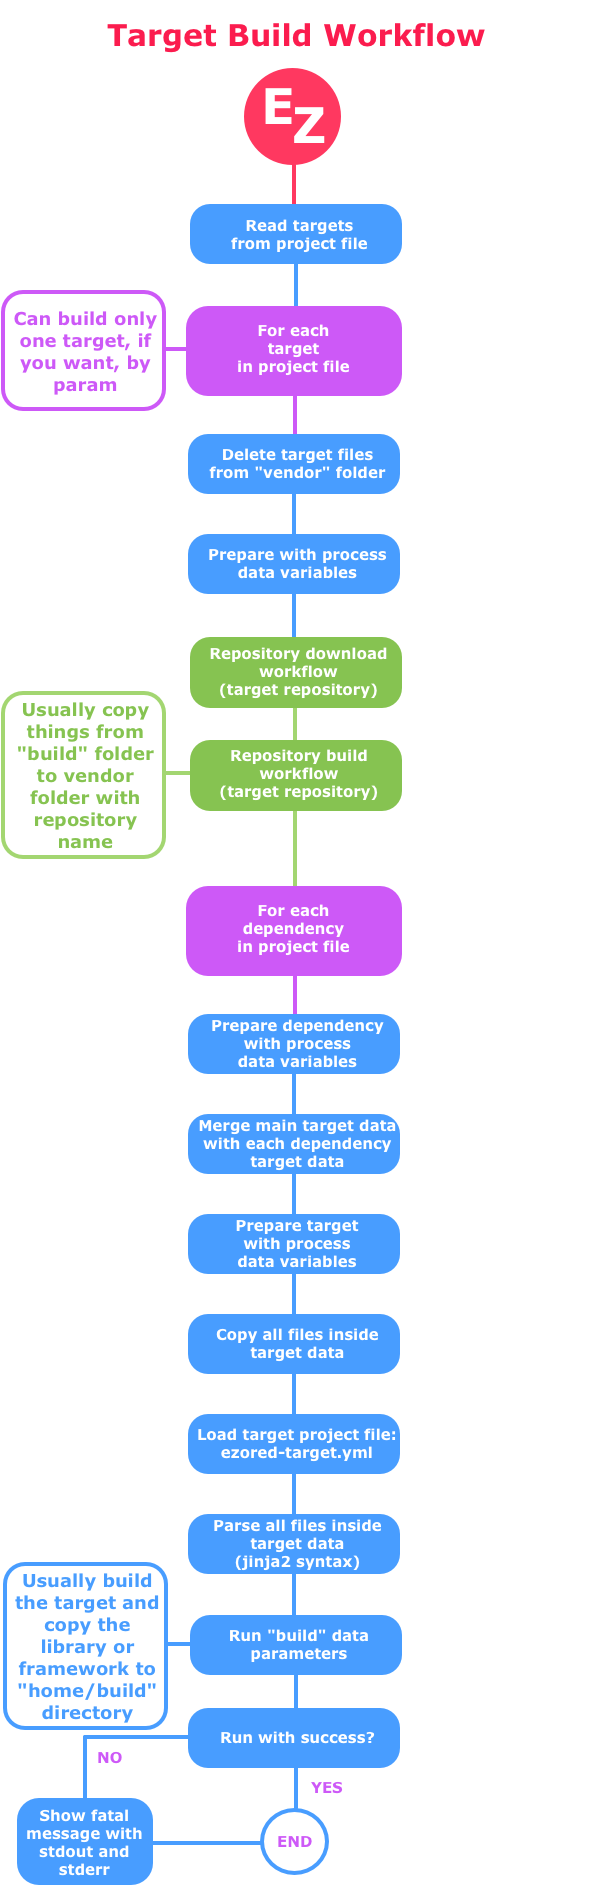
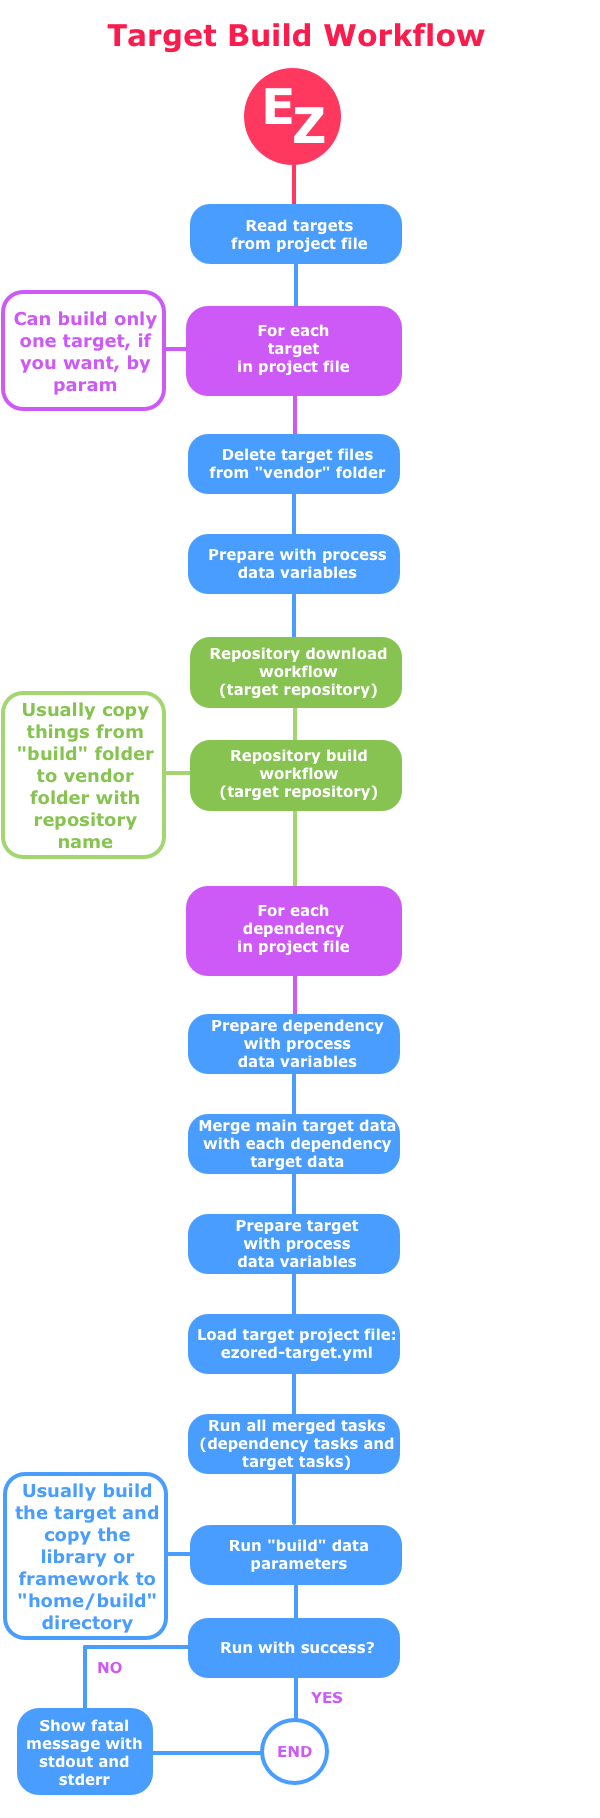
issue #3

diff --git a/ezored/__init__.py b/ezored/__init__.py
@@ -1,1 +1,1 @@
-__version__ = '0.1.4'
+__version__ = '0.1.5'

diff --git a/docs/DEPENDENCY.md b/docs/DEPENDENCY.md
@@ -12,21 +12,24 @@ The dependency block structure has this properties:
   - type
   - name
   - version
+- tasks  
 
-The property `"type"` define how EzoRed will get your dependency. Today we support types:
+The property in `"repository.type"` define how EzoRed will get your dependency. Today we support types:
 - local  
 - github  
 
-The property `"name"` define how EzoRed will find your dependency based on `"type"`. Example:  
+The property `"repository.name"` define how EzoRed will find your dependency based on `"type"`. Example:  
 - `local` = You need set the path to the dependency directory, ex: `${HOME}/my-dependency`  
 - `github` = You need set the repository name, ex: `ezored/dependency-sample` 
 
-The property `"version"` define what version EzoRed need download, ex: `"1.2.0"`. Git repositories have some especial version parse rules:
+The property `"repository.version"` define what version EzoRed need download, ex: `"1.2.0"`. Git repositories have some especial version parse rules:
 - `b:master` = will download version from branch "master" 
 - `t:1.2.0` = will download version from tag "1.2.0" 
 - `c:ef016c0` = will download version from commit "ef016c0" 
 - `1.2.0` = without prefix will download version from tag "1.2.0" 
 - `empty` = empty version field will download version from branch master 
+
+The property `"tasks"` contains a list of Tasks. This tasks are merged on build process with target tasks and executed before the target build command be executed.
 
 ### Custom dependencies
 

diff --git a/docs/TARGET.md b/docs/TARGET.md
@@ -12,21 +12,24 @@ The target block structure has this properties:
   - type
   - name
   - version
+- tasks  
 
-The property `"type"` define how EzoRed will get your target. Today we support types:
+The property `"repository.type"` define how EzoRed will get your target. Today we support types:
 - local  
 - github  
 
-The property `"name"` define how EzoRed will find your target based on `"type"`. Example:  
+The property `"repository.name"` define how EzoRed will find your target based on `"type"`. Example:  
 - `local` = You need set the path to the target directory, ex: `${HOME}/my-target`  
 - `github` = You need set the repository name, ex: `ezored/target-android` 
 
-The property `"version"` define what version EzoRed need download, ex: `"1.2.0"`. Git repositories have some especial version parse rules:
+The property `"repository.version"` define what version EzoRed need download, ex: `"1.2.0"`. Git repositories have some especial version parse rules:
 - `b:master` = will download version from branch "master" 
 - `t:1.2.0` = will download version from tag "1.2.0" 
 - `c:ef016c0` = will download version from commit "ef016c0" 
 - `1.2.0` = without prefix will download version from tag "1.2.0" 
 - `empty` = empty version field will download version from branch master 
+
+The property `"tasks"` contains a list of Tasks. This tasks are merged on build process with all dependencies tasks and executed before build command be executed. 
 
 ### Custom targets
 

diff --git a/docs/PROJECT.md b/docs/PROJECT.md
@@ -35,6 +35,7 @@ A sample EzoRed project file:
 config:
   name: EzoRed
   ios:
+    cmake_version: 3.9
     development_team_id: ABCDEFGHIJ
     bundle_id: com.ezored.library
     code_sign_identity: iPhone Developer
@@ -43,6 +44,7 @@ config:
     version: 1.0.0
     cpp_standard: '11'
   android:
+    cmake_version: 3.4.1
     cpp_standard: '11'
 targets:
   - name: ios
@@ -68,7 +70,8 @@ dependencies:
 
 ### Thoubleshoots
 
-- Use only valid chars on config "name" `[a-z][A-Z][0-9]-_`. Dont start the name with numbers.
+- Use only valid chars on everything property that is a "name". Dont start the name with numbers. The rules are:  
+`[a-z][A-Z][0-9]-_`. 
 
 ### Documentation Index
 
